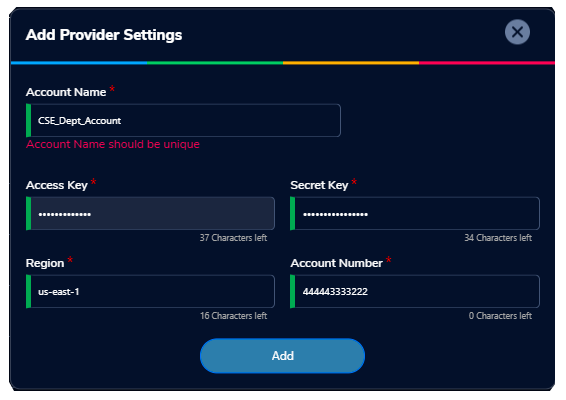
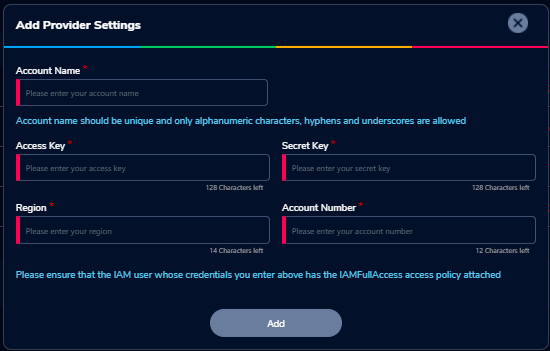
<1.5.5 changes>

Changed region(s): [[0.0, 0.0, 1.0, 1.0], [0.1855, 0.1994, 0.2164, 0.2279]]

diff --git a/source/GettingStarted.rst b/source/GettingStarted.rst
@@ -85,11 +85,21 @@ Click on "Send Resend link" button. If the provided details are valid, you will 
 
 .. image:: images/verificationemail.png
 
-The password change is either successful or unsuccessful (this will be like verification success and error screens).  The user is then redirected back to the login screen.
+**Note**: The password policy should meet the following requirement
+   a. The minimum password length of 8 characters and a maximum of 16 characters.
+   b. It should have atleast one lower case character(a-z).
+   c. It should have atleast one upper case character(A-Z).
+   d. It should have atleast one number(0-9).
+   e. It should have atleast one special character (= + - ^ $ * . [ ] { } ( ) ? ! @ # % & / , > < ' : ; | _ ~).
+
+If the password change is successful you can navigate to the verification successful page. Through the "Click here to login button" you can navigate to the login screen.
+ 
+If the password change is unsuccessful you can see the verification error screen. 
 
 .. image:: images/password.png
 
 .. image:: images/success.png
+
 
 Sign-Up process
 ---------------
@@ -97,7 +107,7 @@ Sign-Up process
 An Administrator can add a new user to the system. See the :ref:`Adding Users<Adding Users>` section for details.
 When an Administrator adds a user to the systen, the user will receive a verification email with a link. When the user clicks on the link he is led to a page where he should change his password.
 
-The password needs to conform to the password policy. 
+The password needs to confirm to the password policy. 
 
 .. image:: images/verificationemail2.png
 
@@ -112,7 +122,6 @@ To plan the creation of a new Organization, use the planning sheet in :ref:`Appe
 
 .. image:: images/OrganizationPage.png
 
-
 Click on the “+Add New” icon  which is at the top right corner. Organization form is opened.
 
 .. list-table:: 
@@ -122,18 +131,22 @@ Click on the “+Add New” icon  which is at the top right corner. Organization
    * - Field
      - Details
    * - Organization Name
-     - <Name of the Organization>
+     - <Name of the Organization> [Enter a unique O.U. name made of the alphanumeric, hyphen and underscore characters]
    * - Organization Description
      - <Description>
    * - Account ID
-     - <Select ID> [Multiple AWS accounts to be  linked.Here we have a list]
-   * - Principal
-     - <Select Principal ID > [Select from the list one or more users with the Principal Investigator role]
+     - <Select ID>
+   * - Principal Investigator ID
+     - <Select Principal ID > [Optional]
+	 
+Click on the **“Add Organization”** button. The new organizational unit is added successfully.
 
-Click on the **“Add Organization”** button. The new organizational unit should be added successfully.
+.. image:: images/addnew.png
 
-**NOTE**:We are selecting a specific AWS account when adding new organization. This links the account to organizations. The organization form allows multiple Account IDs and multi-select on the Principal Investigators list.
+**NOTE**: 
 
+a. Through the "Click here to add an account" button you can navigate to the add provider settings page and add an account. 
+b. You can create an organization without Principal Investigator. Through the "Assign O.U." option in user management, you can assign later.
 
 The Organizations page of the Research Gateway lists all the existing organizational units created, with some details of each organization displayed on the card. Clicking on a specific organization shall lead to “View Organization Details” window .
 
@@ -156,97 +169,7 @@ Click on  the  “Settings” menu item. Provider settings page is opened.
 .. image:: images/Provider2.png 
    :name: Provider Settings Page
    
-**Note:** You need to follow the below steps before adding the settings. These steps are used to create the IAM user in the target account which has the following policies attached. We perform all the operations using this user.
- 
-Method-1:
-
-1. Login to the AWS console and navigate to the IAM service. 
-2. Click on the "Add User" button and give the username exactly as "RG-PortalUser". 
-3. Select Access type as Programmatic access this will create secret key and access key and AWS Management console access. You need to use these credentials while creating the settings.
-4. Select “Attach existing policies directly” and select the AWS Managed Policies which is mentioned below
-
-	* arn:aws:iam::aws:policy/AmazonEC2FullAccess
-	* arn:aws:iam::aws:policy/SecretsManagerReadWrite
-	* arn:aws:iam::aws:policy/service-role/AWSConfigRole
-	* arn:aws:iam::aws:policy/AmazonSSMFullAccess
-	* arn:aws:iam::aws:policy/AWSServiceCatalogAdminFullAccess
-	* arn:aws:iam::aws:policy/AmazonSageMakerFullAccess
-	* arn:aws:iam::aws:policy/AWSBudgetsActionsWithAWSResourceControlAccess
-	* arn:aws:iam::aws:policy/AmazonEventBridgeFullAccess
-	* arn:aws:iam::aws:policy/AWSCloudTrail_FullAccess
-	* arn:aws:iam::aws:policy/AWSCloudFormationFullAccess
-
-5. Click on the "Next" button. It will create a user.
-6. Click on the “Add Inline Policy” and copy the JSON with the inline policy name which is mentioned below. 
-
-*Note:* You have to add all the below mentioned policies.
-
-AWSConfigFullAccess
-
-.. literalinclude:: AWSConfigFullAccess.json
-  :language: JSON
-  :linenos:
-  
-CostExplorerReadOnlyAccess
-
-.. literalinclude:: CostExplorerReadOnlyAccess.json
-  :language: JSON
-  :linenos:
-
-IAMFullAccess
-
-.. literalinclude:: IAMFullAccess.json
-  :language: JSON
-  :linenos:
-  
-S3FullAccess
-
-.. literalinclude:: S3FullAccess.json
-  :language: JSON
-  :linenos:
-  
-SESFullAccess
-
-.. literalinclude:: SESFullAccess.json
-  :language: JSON
-  :linenos:
-  
-SNSFullAccess
-
-.. literalinclude:: SNSFullAccess.json
-  :language: JSON
-  :linenos:
-
-STSFullAccess
-
-.. literalinclude:: STSFullAccess.json
-  :language: JSON
-  :linenos:
-
--------------------------------------------------------------------------------------
-
-Method-2
-
-This method will make the use of script to create the user. Please follow the below mentioned steps:
-
-1. Download the RG-PortalUserScriptFolder from the following link 
-    https://rlcatalyst-researchportal.s3.us-east-2.amazonaws.com/RG-PortalUserScriptFolder.zip
-2. After extracting the zipped folder you will find the following documents
-	a. Access-policy.json
-	b. RGPortalUserScript.sh
-3. Please make sure you have AWS CLI installed and configured with user credentials which have IAMFullAccess. You can do this  using `aws configure` command before executing the script. Refer the following link for help
-	a. https://docs.aws.amazon.com/cli/latest/userguide/cli-chap-install.html
-	b. https://docs.aws.amazon.com/cli/latest/reference/configure/
-4. Set the execute permission on your script using the below chmod command. 
-     chmod +x RGPortalUserScript.sh
-5. You can run the script using any of the following commands. Please save the *AccessKeyId* and *SecretAccessKey* from the output of the script to use them during the settings creation of Research Gateway.
-	a. ./RGPortalUserScript.sh 
-	b. sh RGPortalUserScript.sh 
-	c. bash RGPortalUserScript.sh
-
-
--------------------------------------------------------------------------------------------------
-
+**Note:**  When we add the settings please make sure the user credentials has the IAMFullAccess.
 
 Click on  the  “+Add New” button in the provider setting page. The Add Provider setting dialog-box is opened.
 
@@ -262,25 +185,27 @@ Fill the following details
    * - Attribute
      - Details
    * - Account Name
-     - <Account Name>
+     - <Account Name> [The Account name should be unique and only alphanumeric characters, hyphen and underscores are allowed]
    * - Account Key
-     - <Account Key>
+     - <Account Key> [It should be a minimum of 16 characters and a maximum of 128 characters]
    * - Secret Key
-     - <Secret Key>
+     - <Secret Key> [It should be a minimum of 40 characters and a maximum of 128 characters]
    * - Region
-     - <Region>
+     - <Region> 
    * - Account Number
-     - <AWS Account Number>
+     - <AWS Account Number> [It should be a 12-digit number]
 
 
-Click on the “Add” button. AWS account was added successfully and will show in the table of providers in the Provider Settings page.
+Click on the “Add” button. An AWS account was added successfully. You can see all the account details in a table format.
+
+**NOTE**: Please ensure that the IAM user whose credentials you entered has the IAMFullAccess/AdministratorAccess policy attached otherwise, it will through an error message accordingly.
 
 On each line item there is a contextual menu. Through this we can edit, delete, Assign O.U. and sync the account.
 
 .. image:: images/Project.png
 
-Click on the 3-dotted icon which is available at the right side of the account details page and select “Edit” option. Provider settings page is opened.
-Update the fields and click on “Add”. Provider setting is updated successfully.
+Click on the 3-dotted icon which is available at the right side of the account details page and select “Edit” option and Edit provider settings page is opened.
+Update the  access key  and secret key fields and click on “Add” button. The provider setting got updated successfully.
 
 .. image:: images/Editprovider.png 
 .. image:: images/editprovider2.png
@@ -304,12 +229,13 @@ One window is opened and all organizational units are listed there. Choose one o
 **Note** : When the account is not linked to any other organizations than only you can see the "Assign O.U" option.
  
 Research Gateway works in conjunction with AWS Service Catalog. To synchronize the Service Catalog to your project, select the Product Sync option.
-Click on the “Sync Now” button. Once the synchronization is complete you should see the “Sync completed” message.
+Click on the “Sync Now” button. Once the synchronization is started you should see the “Sync Started” message.
 
 .. image:: images/sync1.png
 
 .. image:: images/sync2.png
 
+**Note**: The "Sync Now" option can get the products from the shared, local, account and organization level portfolio.
 
 .. _`Adding a new project`:
 
@@ -332,22 +258,24 @@ Fill in the following details
    * - Attribute
      - Details
    * - Project Name
-     - <Project Name>
+     - <Project Name> [Enter a unique project name made of alphanumeric, hyphen and underscore characters]
    * - Budget Available
-     - <Budget to allocate to this project (cumulative)>
+     - <Budget to allocate to this project (cumulative)> 
    * - Account ID 
      - <Account ID>
    * - Project Description
      - <Description about the project> 
    * - Add Researchers
-     - <Select researchers from the list>
+     - <Select researchers from the list> [optional]
 
 
 Click on the “Add Project” button. Added a new project successfully.
 
-**Note**:When adding a project we are  passing researcher information. Through this we are linking researchers to the project. The project form allows multi-select addition of researchers while creating a project.
+**Note**:
 
-**Note:  The project is independent of the researcher. We can create an empty project and add researchers later**
+a. When adding a project we are passing researcher information. Through this, we are linking researchers to the project. 
+b. The project is independent of the researcher. We can create an empty project and add researchers later. Through the "Manage" option in the view project details screen.
+c. If an AWS account is not available under an account ID field you can see a message like **"No AWS accounts available. Please contact your administrator to add AWS accounts to your organization"**.
 
 *My Projects* page of the Research Gateway lists all the existing projects created along with other details. Clicking on a specific project shall leads to a project details page.
 

diff --git a/source/Features.rst b/source/Features.rst
@@ -138,7 +138,16 @@ The verification email has been sent. Check the verification email delivered to 
 
 **NOTE**: The verification email will be sent from **"no-reply@verificationemail.com"**. If you don't get the link please check the spam folder.
 
-Users can choose a password and click on the “Submit” button. On successful validation, users will be allowed to login into the Research Gateway. 
+Users can choose a password and click on the “Submit” button. 
+
+**Note**: The password policy should meet the following requirement :
+   a. The minimum password length of 8 characters and a maximum of 16 characters.
+   b. It should have atleast one lower case character(a-z).
+   c. It should have atleast one upper case character(A-Z).
+   d. It should have atleast one number(0-9).
+   e. It should have atleast one special character(= + - ^ $ * . [ ] { } ( ) ? ! @ # % & / , > < ' : ; | _ ~ `)
+   
+On successful validation, users will be allowed to login into the Research Gateway. 
 
 .. image:: images/password1.png 
 
@@ -154,7 +163,7 @@ There is a contextual menu which is at the right side of the card. Once clicked 
 
 **Enable**
 
-There is a contextual menu which is at the right side of the card. Once clicked on that you can see the actions one by one. When clicking on the disable action you can see the message like "A user, once enabled, will be able to log in to the system and carry out activities according to his role. Are you sure you want to proceed?"  in the pop- up with “Enable” button.
+There is a contextual menu which is at the right side of the card. Once clicked on that you can see the actions one by one. When clicking on the enable action you can see the message like "A user, once enabled, will be able to log in to the system and carry out activities according to his role. Are you sure you want to proceed?"  in the pop- up with “Enable” button.
 
 .. image:: images/enable.png 
 
@@ -163,6 +172,14 @@ There is a contextual menu which is at the right side of the card. Once clicked 
 There is a contextual menu which is at the right side of the card. Once clicked on that you can see the actions one by one. When clicking on the disable action you can see the message like "A user, once disabled, will no longer be able to login to the system. Are you sure you want to proceed? in the pop-up with the “Disable” button.
 
 .. image:: images/disable.png 
+
+**Resend verification mail**
+
+There is a contextual menu which is at the right side of the card. Once clicked on that you can see the actions one by one. Through the "Resend verification mail" option you can get another verification email to the registered email address. On successful completion, you can see the green color toaster message. Check the verification email delivered to the registered email address and click on the verification link to activate the account.  
+
+.. image:: images/resend.png
+
+**NOTE**: If the user is inactive state then only you can see the "Resend verification mail" option.
 
 Audit Trail
 ^^^^^^^^^^^
@@ -234,6 +251,8 @@ If we could not find any products related to the filter you can see the message 
 
 .. image:: images/search3.png
 
+**NOTE**: Use details from :ref:`Appendix B<Appendix B>` for Standard Catalog products.
+
 Principal Investigator Features
 +++++++++++++++++++++++++++++++
 
@@ -266,7 +285,7 @@ Fill in the following details
    * - Project Description
      - <Description about the project> 
    * - Add Researchers
-     - <Select researchers from the list>
+     - <Select researchers from the list> [optional]
    
 Click on the “Add Project” button. Added a new project successfully.
 
@@ -274,9 +293,10 @@ Click on the “Add Project” button. Added a new project successfully.
 
 **NOTE**: 
 
-1. When adding a project we are passing researcher information. Through this, we are linking researchers to the project. The project form allows multi-select 
-   addition of researchers while creating a project.
-2. My Projects page of the Research Gateway will list all the existing projects created along with other details. Clicking on a specific project will lead 
+a. When adding a project we are passing researcher information. Through this, we are linking researchers to the project. 
+b. The project is independent of the researcher. We can create an empty project and add researchers later. Through the "Manage" option in the view project details screen.
+c. If an AWS account is not available under an account ID field you can see a message like **"No AWS accounts available. Please contact your administrator to add AWS accounts to your organization"**. 
+d. *My Projects* page of the Research Gateway will list all the existing projects created along with other details. Clicking on a specific project will lead 
    to a project details page. Click on the specific project you can navigate to the project details page.
 
 How to add researchers to existing project 
@@ -483,12 +503,16 @@ b. **Available Products Card view** - You can see the product details in card vi
 
 c. **Keyword search** - You can search products based on product type, product name and product description.
 
-d. **Filter** -  Choose the"All" option. Through this you can see the all products here.
-
+d. **Filter** - We have following filter options:
+      
+	  a. **All** - You can see the all products here.
+	  b. **Research** - You can see the products realted to compute and analytics here. Eg: Amazon EC2
+	  c. **IT Applications** - You can see the products related to storage and database here. Eg: Amazon S3
 
 .. image:: images/available.png
 
-**NOTE**: Use details from :ref:`Appendix B<Appendix B>` for Standard Catalog.
+**NOTE**: Use details from :ref:`Appendix B<Appendix B>` for Standard Catalog Products.
+
 
 Product Order
 ^^^^^^^^^^^^^
@@ -556,7 +580,7 @@ While product is in the *Creating* state the details page displays a time limit 
 
 When you click any action(Start/Stop/Terminate) in a provisioned product, state should be changed automatically using server side events.
 
-**NOTE**: On successful provision of a product when you click on any action immediately, if instances not created you can see a message "**No Instances Specified**".
+**NOTE**: On successful provision of a product when you click on any action immediately, if instances not created you can see a message "**The instance-id of the product is not available. Please try after some time**".
 
 .. image:: images/instance.png
 
@@ -576,7 +600,7 @@ You can see product related actions in the  Actions menu.
 
 3. Terminate action : You can terminate the product through “Terminate” action.
 
-4. SSH/RDP action : You can connect to the instance in a new window through "SSH" action.
+4. SSH/RDP action : You can connect to the instance in a new tab through "SSH" action.
 
 Fill the following details
 

diff --git a/source/AccessingRG.rst b/source/AccessingRG.rst
@@ -67,11 +67,18 @@ Fill the following details
    * - E-mail address
      - <Registered Email ID>
    
-Click on "Send Resend link" button. If the provided details are valid, he will get a verification link that has been sent to his email to reset the password. On clicking the link in the email, the user is prompted to change password screen.  
+Click on "Send Resend link" button. If the provided details are valid, the verification link that has been sent to registered email to reset the password. On clicking the link in the email, the user is prompted to change password screen.  
 
 .. image:: images/verificationemail.png
 
-The password change is either successful or unsuccessful (this will be like verification success and error screens).  The user is then redirected back to the login screen.
+**Note**: The password policy should meet the following requirement
+   a. The minimum password length of 8 characters and a maximum of 16 characters.
+   b. It should have atleast one lower case character(a-z).
+   c. It should have atleast one upper case character(A-Z).
+   d. It should have atleast one number(0-9).
+   e. It should have atleast one special character (= + - ^ $ * . [ ] { } ( ) ? ! @ # % & / , > < ' : ; | _ ~).
+
+If the password change is successful you can navigate to the verification successful page. Through the "Click here to login button" you can navigate to the login screen. If the password change is unsuccessful you can see the verification error screen.
 
 .. image:: images/password.png
 
